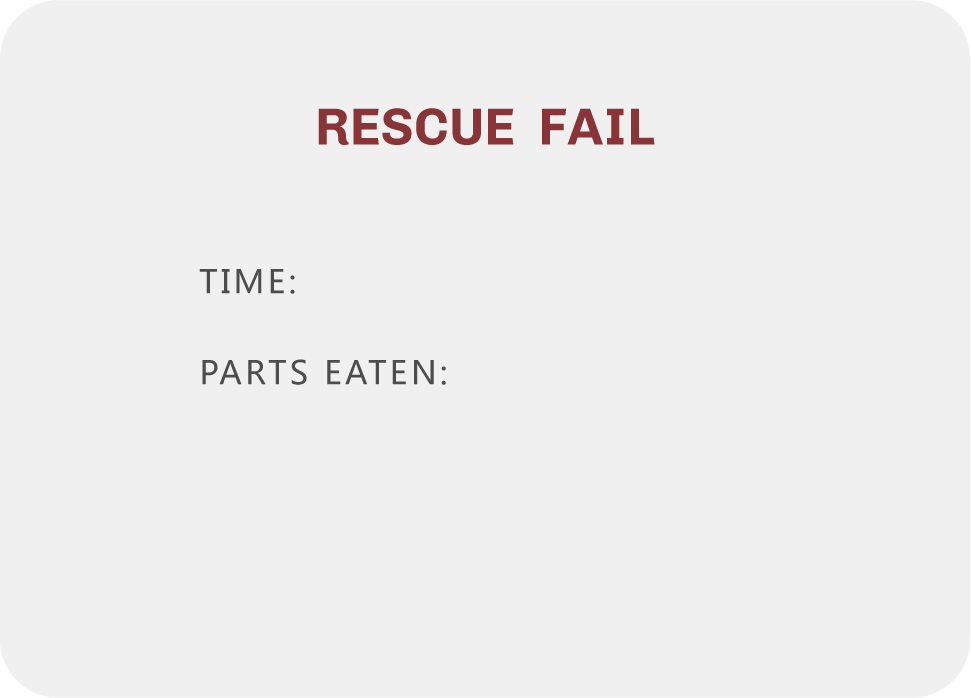
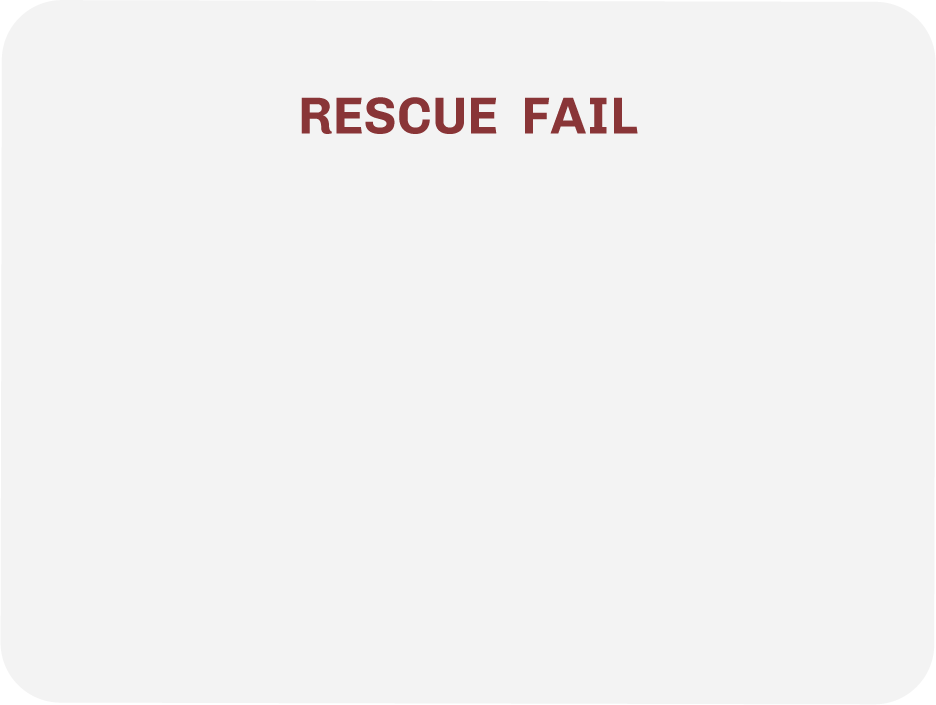
update ui

diff --git a/src/ts/frontend/game/layers/gameover-layer.ts b/src/ts/frontend/game/layers/gameover-layer.ts
@@ -26,37 +26,36 @@ class GameOverLayer extends AbstractLayer {
             SZ.GAMEOVER.BACKGROUND_W, SZ.GAMEOVER.BACKGROUND_H)
             .Then(this.restart.Painter())
             .Then(this.mainMenu.Painter())
-            .Then(this.learn.Painter())
-            .Then(this.PaintTime())
-            .Then(this.PaintParts());
+            .Then(this.share.Painter())
+            .Then(this.learn.Painter());
     }
-    private PaintTime(): Painter {
-        let sec = Math.round(this.gameResult.time);
-        let min = Math.floor(sec / 60);
-        sec = sec % 60;
-        return Paint.Text(
-            `${SZ.GAMEOVER.FONT_SIZE}px MSYaHei`,
-            `${min}: ${sec}`,
-            SZ.GAMEOVER.TIME_X, SZ.GAMEOVER.TIME_Y, "rgb(93,93,93)");
-    }
-    private PaintParts(): Painter {
-        return Paint.Text(
-            `${SZ.GAMEOVER.FONT_SIZE}px MSYaHei`,
-            `${Math.round(this.gameResult.foodEaten)}`,
-            SZ.GAMEOVER.PART_X, SZ.GAMEOVER.PART_Y, "rgb(93,93,93)");
-    }
-    private PaintTargetComplete(): Painter {
-        return Paint.Text(
-            `${SZ.GAMEOVER.FONT_SIZE}px MSYaHei`,
-            `${this.gameResult.targetCompleted}`,
-            SZ.GAMEOVER.TARGET_X, SZ.GAMEOVER.TARGET_Y, "rgb(93,93,93)");
-    }
+    // private PaintTime(): Painter {
+    //     let sec = Math.round(this.gameResult.time);
+    //     let min = Math.floor(sec / 60);
+    //     sec = sec % 60;
+    //     return Paint.Text(
+    //         `0.025px sans-serif`,
+    //         `${min}: ${sec}`,
+    //         SZ.GAMEOVER.TIME_X, SZ.GAMEOVER.TIME_Y, "rgb(93,93,93)");
+    // }
+    // private PaintParts(): Painter {
+    //     return Paint.Text(
+    //         `0.025px MSYaHei`,
+    //         `${Math.round(this.gameResult.foodEaten)}`,
+    //         SZ.GAMEOVER.PART_X, SZ.GAMEOVER.PART_Y, "rgb(93,93,93)");
+    // }
+    // private PaintTargetComplete(): Painter {
+    //     return Paint.Text(
+    //         `${SZ.GAMEOVER.FONT_SIZE}px MSYaHei`,
+    //         `${this.gameResult.targetCompleted}`,
+    //         SZ.GAMEOVER.TARGET_X, SZ.GAMEOVER.TARGET_Y, "rgb(93,93,93)");
+    // }
     Buttons(): MouseEventDispatcher {
         this.learn = this.MakeLearnButton();
         this.restart = this.MakeRestartButton();
         this.mainMenu = this.MakeMainMenuButton();
-        const share = this.MakeShareButton();
-        return Button.Add(share, this.learn, this.restart, this.mainMenu);
+        this.share = this.MakeShareButton();
+        return Button.Add(this.share, this.learn, this.restart, this.mainMenu);
     }
     private MakeLearnButton() {
         return new AnimatedButton(
@@ -71,23 +70,23 @@ class GameOverLayer extends AbstractLayer {
     private MakeRestartButton() {
         return new AnimatedButton(
             new RectBound(
-                SZ.GAMEOVER.RESTART_X, SZ.GAMEOVER.BUTTON_Y,
+                SZ.GAMEOVER.BUTTON_X, SZ.GAMEOVER.RESTART_Y,
                 SZ.GAMEOVER.BUTTON_W, SZ.GAMEOVER.BUTTON_H),
             IMG.BTN.restart, IMG.BTN.restartFocus, () => this.Restart());
     }
     private MakeMainMenuButton() {
         return new AnimatedButton(
             new RectBound(
-                SZ.GAMEOVER.MAINMENU_X, SZ.GAMEOVER.BUTTON_Y,
+                SZ.GAMEOVER.BUTTON_X, SZ.GAMEOVER.MAINMENU_Y,
                 SZ.GAMEOVER.BUTTON_W, SZ.GAMEOVER.BUTTON_H),
             IMG.BTN.mainMenu, IMG.BTN.mainMenuFocus, () => this.MainMenu());
     }
     private MakeShareButton() {
-        const b = Bound.Sub(
-            new RectBound(0, 0, 1, 0.75),
-            Bound.Add(
-                this.learn.bound, this.restart.bound, this.mainMenu.bound));
-        return new ClickButton(() => share.Show(), b);
+        return new AnimatedButton(
+            new RectBound(
+                SZ.GAMEOVER.BUTTON_X, SZ.GAMEOVER.SHARE_Y,
+                SZ.GAMEOVER.BUTTON_W, SZ.GAMEOVER.BUTTON_H),
+            IMG.GAMEOVER.share, IMG.GAMEOVER.shareFocus, () => this.Share());
     }
     private MainMenu(): void {
         for (; this.control.LayerSize() > 1;)this.control.PopLayer();
@@ -96,10 +95,14 @@ class GameOverLayer extends AbstractLayer {
         this.control.PopLayer();
         this.restartCallback();
     }
+    private Share(): void {
+        share.Show();
+    }
     background: HTMLImageElement;
     gameResult: GameResult;
     learn: AnimatedButton<RectBound>;
     restart: AnimatedButton<RectBound>;
+    share: AnimatedButton<RectBound>;
     mainMenu: AnimatedButton<RectBound>;
     restartCallback: () => void;
 }

diff --git a/src/ts/frontend/size/size.ts b/src/ts/frontend/size/size.ts
@@ -3,10 +3,10 @@ namespace SZ {
     export const HEIGHT_FACTOR: number = 3;
     export const RELATIVE_HEIGHT: number = HEIGHT_FACTOR / WIDTH_FACTOR;
 
-    export const BACK_X: number = 0.90;
-    export const BACK_Y: number = 0.71;
-    export const BACK_W: number = 0.075;
-    export const BACK_H: number = 0.02;
+    export const BACK_X: number = 0.875;
+    export const BACK_Y: number = 0.7;
+    export const BACK_W: number = 0.1;
+    export const BACK_H: number = 0.0275;
 
     export namespace START {
         export const BUTTON_X: number = 0.875;
@@ -125,20 +125,19 @@ namespace SZ {
         export const BACKGROUND_Y: number = (RELATIVE_HEIGHT - BACKGROUND_H) / 2;
         export const BUTTON_W: number = PAUSE.BUTTON_W;
         export const BUTTON_H: number = PAUSE.BUTTON_H;
-        export const BUTTON_Y: number = BACKGROUND_Y + 0.3;
-        export const RESTART_X: number = 0.46 - BUTTON_W;
-        export const MAINMENU_X: number = 0.54;
+        export const BUTTON_X: number = 0.5 - BUTTON_W / 2;
+        export const RESTART_Y: number = 0.28;
+        export const MAINMENU_Y: number = 0.37;
+        export const SHARE_Y: number = 0.46;
         export const LEARN_W: number = 0.281875;
         export const LEARN_H: number = 0.016875;
         export const LEARN_X: number = (1 - LEARN_W) / 2;
-        export const LEARN_Y: number = BACKGROUND_Y + BACKGROUND_H + 0.019;
-        export const FONT_SIZE: number = 0.03;
-        export const TIME_X: number = 0.35 + BACKGROUND_X;
-        export const TIME_Y: number = 0.1625 + BACKGROUND_Y;
-        export const PART_X: number = TIME_X;
-        export const PART_Y: number = 0.21875 + BACKGROUND_Y;
-        export const TARGET_X: number = 0;
-        export const TARGET_Y: number = 0;
+        export const LEARN_Y: number = 0.6;
+        // export const FONT_SIZE: number = 0.03;
+        // export const TIME_X: number = 0.35 + BACKGROUND_X;
+        // export const TIME_Y: number = 0.1625 + BACKGROUND_Y;
+        // export const PART_X: number = TIME_X;
+        // export const PART_Y: number = 0.21875 + BACKGROUND_Y;
     }
     export namespace TUTORIAL {
         export const START_W: number = 0.57;

diff --git a/src/ts/frontend/game/size.d.ts b/src/ts/frontend/game/size.d.ts
@@ -123,20 +123,19 @@ declare namespace SZ {
         const BACKGROUND_Y: number;
         const BUTTON_W: number;
         const BUTTON_H: number;
-        const BUTTON_Y: number;
-        const RESTART_X: number;
-        const MAINMENU_X: number;
+        const BUTTON_X: number;
+        const RESTART_Y: number;
+        const MAINMENU_Y: number;
+        const SHARE_Y: number;
         const LEARN_X: number;
         const LEARN_Y: number;
         const LEARN_W: number;
         const LEARN_H: number;
         const FONT_SIZE: number;
-        const TIME_X: number;
-        const TIME_Y: number;
-        const PART_X: number;
-        const PART_Y: number;
-        const TARGET_X: number;
-        const TARGET_Y: number;
+        // const TIME_X: number;
+        // const TIME_Y: number;
+        // const PART_X: number;
+        // const PART_Y: number;
     }
     namespace TUTORIAL {
         const START_W: number;

diff --git a/src/index.html b/src/index.html
@@ -26,7 +26,7 @@
           </a>
           </div>
           <div class="share-btn-area">
-            <a href="https://twitter.com/intent/tweet?text=Learn%20synthetic%20biology%20while%20playing%20a%20snake%20game%21&hashtags=IGEM2017&url=http%3A%2F%2Fvinalx.party" class="share-social-btn fa fa-twitter-square" target="blank"></a>
+            <a href="https://twitter.com/intent/tweet?text=Learn%20synthetic%20biology%20while%20playing%20a%20snake%20game%21&hashtags=IGEM2017%2CSYSU-Software&url=http%3A%2F%2Fvinalx.party" class="share-social-btn fa fa-twitter-square" target="blank"></a>
           </div>
         </div>
       </div>

diff --git a/src/ts/frontend/game/images.ts b/src/ts/frontend/game/images.ts
@@ -99,6 +99,8 @@ namespace IMG {
         export const success = image("images/gameover/success.png");
         export const learn = image("images/gameover/learn.png");
         export const learnFocus = image("images/gameover/learn-focus.png");
+        export const share = image("images/gameover/share.png");
+        export const shareFocus = image("images/gameover/share-focus.png")
     }
     export namespace TUTORIAL {
         export const start = image("images/tutorial/start.png");
